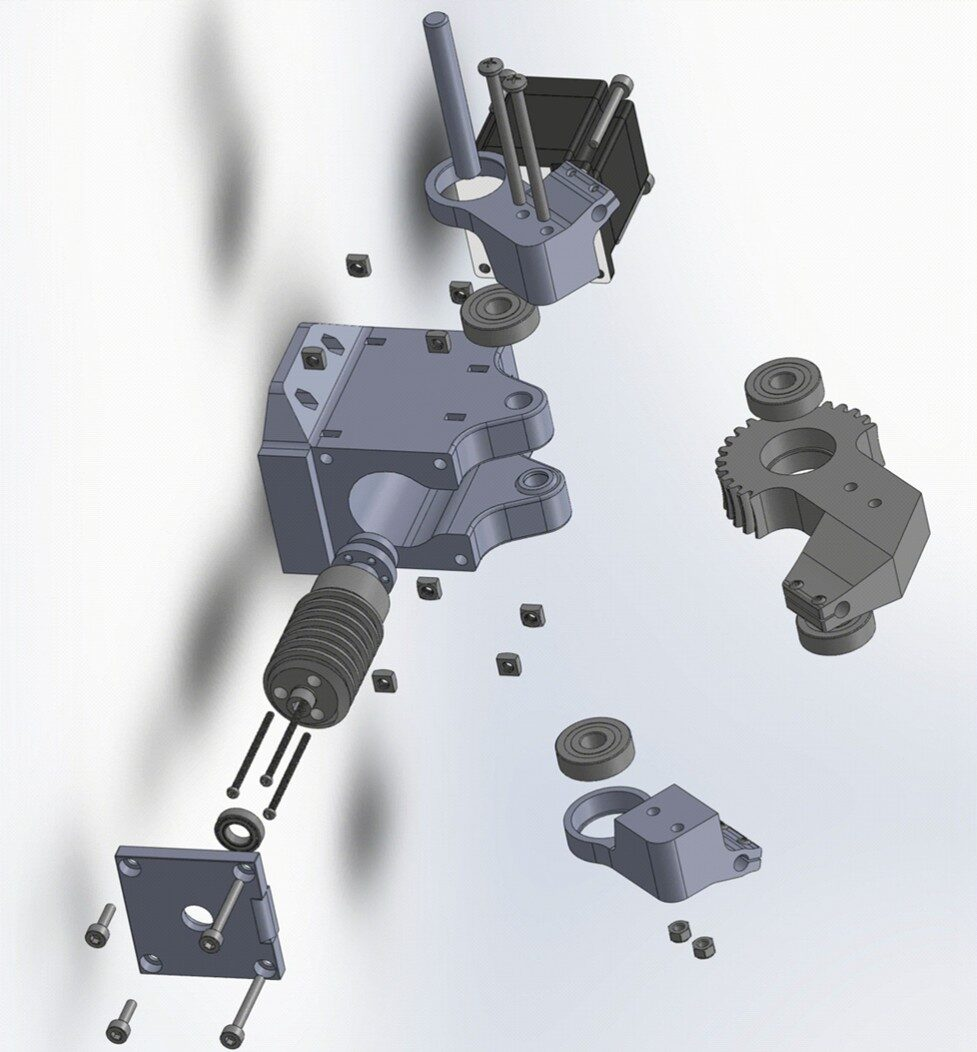
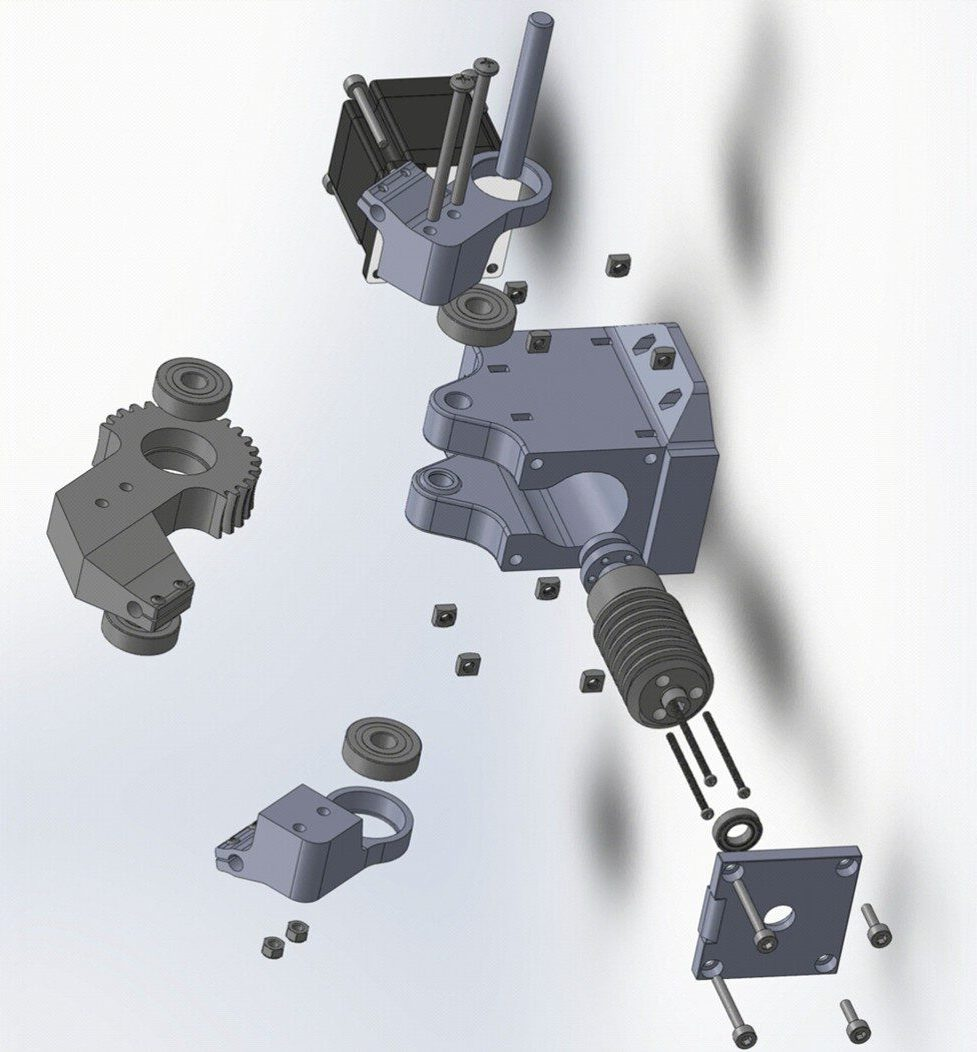
Add YouTube embed to rover page, fix WARMAN3 image flip

diff --git a/project-rover.html b/project-rover.html
@@ -114,6 +114,30 @@
     margin-top: 0.5rem;
   }
 
+  .hero-video-wrap {
+    width: 100%;
+    max-width: 960px;
+    margin: 0 auto 3rem;
+    padding: 0 var(--page-pad, 2rem);
+  }
+
+  .hero-video-wrap .video-ratio {
+    position: relative;
+    width: 100%;
+    padding-bottom: 56.25%;
+    border-radius: 4px;
+    overflow: hidden;
+    border: 1px solid var(--border);
+  }
+
+  .hero-video-wrap .video-ratio iframe {
+    position: absolute;
+    inset: 0;
+    width: 100%;
+    height: 100%;
+    border: none;
+  }
+
   @media (max-width: 760px) {
     .content-row {
       grid-template-columns: 1fr;
@@ -163,6 +187,12 @@
     <span class="project-tag">Embedded systems</span>
     <span class="project-tag">Project management</span>
     <span class="project-tag">Sponsorship</span>
+  </div>
+</div>
+
+<div class="hero-video-wrap">
+  <div class="video-ratio">
+    <iframe src="https://www.youtube.com/embed/_APts9QzMew" title="UTS Rover Team 2026" allow="accelerometer; autoplay; clipboard-write; encrypted-media; gyroscope; picture-in-picture; web-share" allowfullscreen></iframe>
   </div>
 </div>
 
